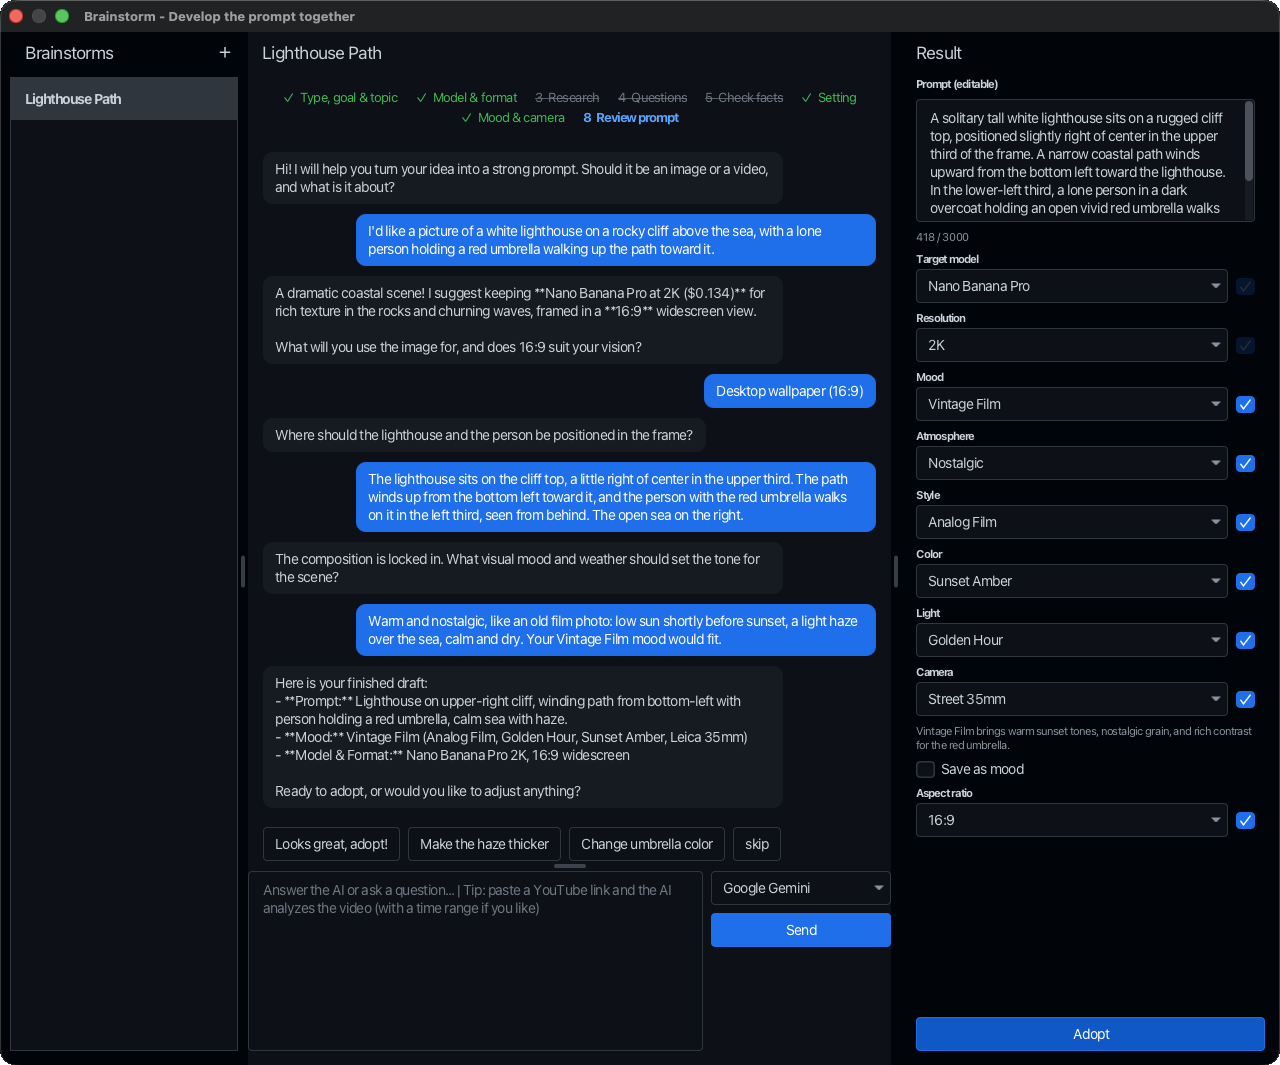
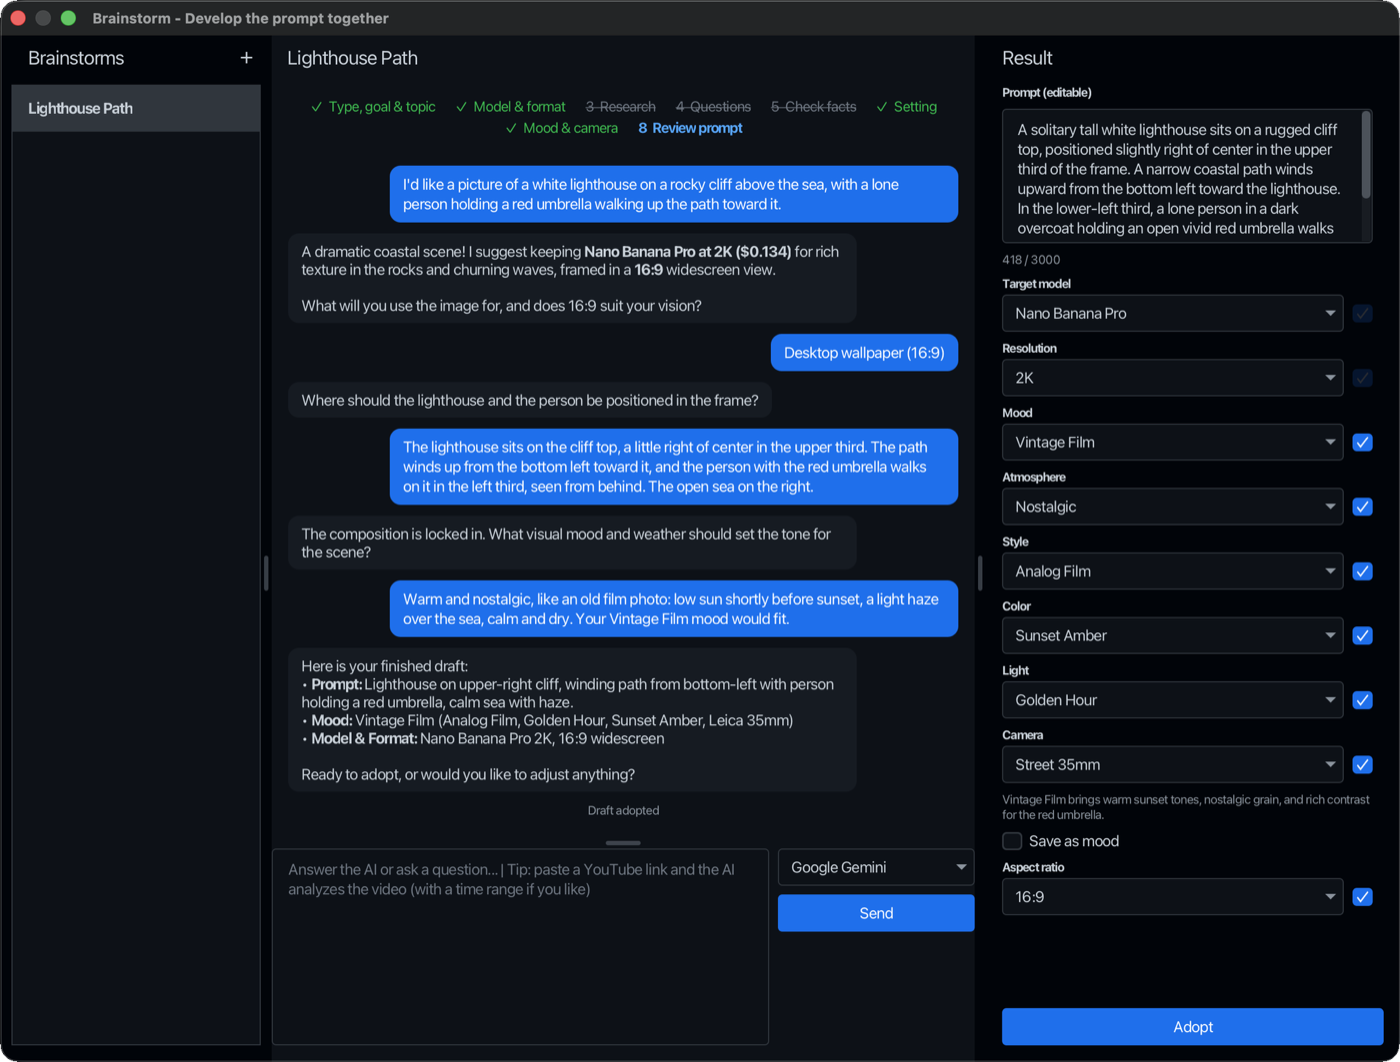
feat(website): New Brainstorm screenshot with formatted chat

diff --git a/website/index.html b/website/index.html
@@ -12,7 +12,7 @@
     <link rel="icon" type="image/png" href="assets/img/favicon-64.png">
     <link rel="apple-touch-icon" href="assets/img/apple-touch-icon.png">
     <link rel="preload" href="assets/fonts/space-grotesk-700.woff2" as="font" type="font/woff2" crossorigin>
-    <link rel="stylesheet" href="assets/css/site.css?v=20261115g">
+    <link rel="stylesheet" href="assets/css/site.css?v=20261115h">
 </head>
 <body>
 
@@ -60,7 +60,7 @@
         <figure class="card overview-figure" style="margin-inline: 0">
             <svg viewBox="-12 0 1272 625" role="img" aria-labelledby="overview-desc">
                 <desc id="overview-desc" data-i18n="overview.alt">The MoodFrame main window with the library, the images, the prompt, and the groups Mood, Frame and Generation</desc>
-                <image href="assets/img/app-screenshot.png?v=20261115g" x="194" y="30" width="860" height="540"/>
+                <image href="assets/img/app-screenshot.png?v=20261115h" x="194" y="30" width="860" height="540"/>
                 <g stroke-width="1" fill="none">
                     <line x1="182" y1="112" x2="199" y2="112" stroke="rgb(255 255 255 / 45%)"/>
                     <line x1="182" y1="184" x2="372" y2="184" stroke="rgb(255 255 255 / 45%)"/>
@@ -102,7 +102,7 @@
                     <text x="1074" y="591" class="callout-text" data-i18n="feature.brainstorm.2">with an AI assistant</text>
                 </g>
             </svg>
-            <img class="shot" src="assets/img/app-screenshot.png?v=20261115g" alt="" width="1426" height="895" loading="lazy">
+            <img class="shot" src="assets/img/app-screenshot.png?v=20261115h" alt="" width="1426" height="895" loading="lazy">
             <ul class="overview-list">
                 <li><span><b data-i18n="feature.library">Library</b> · <span data-i18n="feature.library.full">Chats, or all images of a mood or frame</span></span></li>
                 <li><span><b data-i18n="feature.images">Images</b> · <span data-i18n="feature.images.full">view in detail, use as reference, or delete</span></span></li>
@@ -130,7 +130,7 @@
             </div>
             <div class="mood-body" role="tabpanel">
                 <img src="assets/img/mood-vintage-film.jpg" alt="" width="1600" height="1067" data-mood-image>
-                <img class="panel" src="assets/img/panel-vintage-film.png?v=20261115g" alt="" width="228" height="549" data-mood-panel>
+                <img class="panel" src="assets/img/panel-vintage-film.png?v=20261115h" alt="" width="228" height="549" data-mood-panel>
             </div>
             <p class="note" data-i18n="mood.caption">Vintage Film is generated from a prompt; the other four use it as reference image (Edit). Nano Banana Pro.</p>
         </div>
@@ -180,7 +180,7 @@
         <h2 data-i18n="brainstorm.title">From a rough idea to a finished prompt</h2>
         <p class="lead" data-i18n="brainstorm.lead">A guided chat with Gemini or an OpenAI-compatible model works out the scene with you.</p>
         <div class="card brainstorm-body">
-            <img src="assets/img/brainstorm.png?v=20261115g" alt="The Brainstorm window of MoodFrame with a chat about a lighthouse and the finished draft" width="1280" height="1065" loading="lazy">
+            <img src="assets/img/brainstorm.png?v=20261115h" alt="The Brainstorm window of MoodFrame with a chat about a lighthouse and the finished draft" width="1400" height="1062" loading="lazy">
             <div>
                 <ol class="steps">
                     <li style="--dot: #ff6b4a"><b data-i18n="brainstorm.step1">Describe your idea</b><span data-i18n="brainstorm.step1.text">A sentence is enough, or a link to a YouTube video.</span></li>
@@ -326,6 +326,6 @@
     </div>
 </footer>
 
-<script src="assets/js/site.js?v=20261115g" defer></script>
+<script src="assets/js/site.js?v=20261115h" defer></script>
 </body>
 </html>

diff --git a/website/assets/js/site.js b/website/assets/js/site.js
@@ -224,9 +224,9 @@ function applyMood () {
     const mood = MOODS[state.mood]
     for (const tab of document.querySelectorAll("[data-mood]"))
         tab.setAttribute("aria-selected", String(tab.dataset.mood === state.mood))
-    document.querySelector("[data-mood-image]").src = `assets/img/${mood.image}?v=20261115g`
+    document.querySelector("[data-mood-image]").src = `assets/img/${mood.image}?v=20261115h`
     const panel = document.querySelector("[data-mood-panel]")
-    panel.src = `assets/img/${mood.panel}?v=20261115g`
+    panel.src = `assets/img/${mood.panel}?v=20261115h`
     panel.alt = `${t("mood.panel")} ${t(`mood.${state.mood}.name`)}`
 }
 

diff --git a/website/imprint.html b/website/imprint.html
@@ -7,7 +7,7 @@
     <meta name="robots" content="noindex">
     <meta name="theme-color" content="#0d1a1e">
     <link rel="icon" type="image/png" href="assets/img/favicon-64.png">
-    <link rel="stylesheet" href="assets/css/site.css?v=20261115g">
+    <link rel="stylesheet" href="assets/css/site.css?v=20261115h">
 </head>
 <body>
 
@@ -110,6 +110,6 @@
     </div>
 </footer>
 
-<script src="assets/js/site.js?v=20261115g" defer></script>
+<script src="assets/js/site.js?v=20261115h" defer></script>
 </body>
 </html>

diff --git a/website/privacy.html b/website/privacy.html
@@ -7,7 +7,7 @@
     <meta name="robots" content="noindex">
     <meta name="theme-color" content="#0d1a1e">
     <link rel="icon" type="image/png" href="assets/img/favicon-64.png">
-    <link rel="stylesheet" href="assets/css/site.css?v=20261115g">
+    <link rel="stylesheet" href="assets/css/site.css?v=20261115h">
 </head>
 <body>
 
@@ -169,6 +169,6 @@
     </div>
 </footer>
 
-<script src="assets/js/site.js?v=20261115g" defer></script>
+<script src="assets/js/site.js?v=20261115h" defer></script>
 </body>
 </html>
